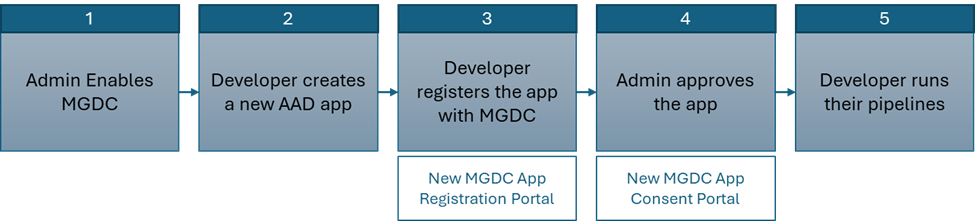
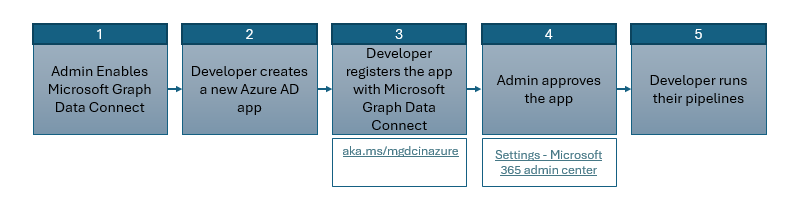
Updated onborading-experience-overview.md, data-connect-pam.md, and app-registration.md with readability and product branding updates; added app-authorization.md and existing-customer-migration.md new docs; added markdown notes to relevant pages

diff --git a/concepts/app-authorization.md b/concepts/app-authorization.md
@@ -1,0 +1,121 @@
+---
+title: "Microsoft Graph app authorization"
+description: "Description of the overall Microsoft Graph app authorization process"
+author: "michaelvenables"
+ms.localizationpriority: high
+ms.custom: scenarios:getting-started
+---
+
+# App authorization
+
+> [!NOTE]
+> This documentation is for global administrators authorizing Microsoft Graph Data Connect apps for your organization.
+
+The new Data Connect app authorization experience is built into the M365 admin center. You can get started by navigating to `Org settings` under the `Security & Privacy` tab. For direct access, [click here](https://admin.microsoft.com/Adminportal/Home?#/Settings/MGDCAdminCenter). This is a different entry point from where admins opt-in to Data Connect. Currently, only global administrators may authorize Data Connect applications.
+
+![Graphic showing org settings in the Security & Privacy tab for Data Connect apps.](images/org-settings-security-and-privacy-data-connect-apps.png)
+
+## App summary view
+
+The landing page of the Data Connect applications portal is a quick view of all Data Connect applications you may be interested in, as shown in the images below:
+
+![Graphic showing a quick view in the Data Connect portal of apps you might be interested in.](images/data-connect-applications-quick-view.png)
+
+![Graphic showing a line entry populated in the Data Connect portal.](images/data-connect-applications-quick-view-populated-with-line-entry.png)
+
+You'll find single-tenant applications and multi-tenant applications in the Data Connect applications portal:
+
+- **Single-tenant applications**—applications that are housed in the your tenant, and require access to data from your tenant. These are typically enterprise scenarios.  
+- **Multi-tenant applications**— applications that are housed in another tenant, and require access to data from your tenant. These are typically ISV scenarios. Review the apps carefully, as authorizing them can enable data to be migrated from your tenant to the app developer’s tenant.
+
+All single-tenant apps will be populated in the table by default. Only approved, denied, or expired multi-tenant apps will be included in the table. Other apps may be shown in the table with the following statuses:
+
+- **Pre-authorization**—apps that have not been acted upon yet. This status is only possible for single-tenant apps. Apps in this state will always fail at runtime.
+- **Approved**—apps that an admin has approved to access M365 data for your tenant.
+- **Denied**—apps that an admin has denied to access M365 data for your tenant. Apps in this state will always fail at runtime.
+- **Expired**—apps that an admin has approved to access M365 data for your tenant, but the approval expired. Apps in this state will always fail at runtime.
+
+### App details view
+
+***For this section, can we either have a set of images for the user to click through or a GIF of all wizard pages to reduce number of screenshots***
+
+Clicking on an app entry in the table will launch the app details view, with more information on what data the app requires. This wizard experience walks you through the relevant data access details, and allows you to approve or deny an app at the end. For what this looks like in the Data Connect app portal and M365 admin center, see the images below:
+
+![Graphic showing the app details view in the Data Connect portal.](images/data-connect-portal-app-details-view.png)
+
+![Graphic showing the app details view in the M365 admin center.](images/m365-admin-center-app-details-view.png)
+
+The first step in the wizard shows overview information about the application:
+
+`App owner` main user name of the developer who registered the application.
+
+`Data destination` sink where the data will be delivered. If approved, this app may move the requested data to any location within the listed sink.
+
+`App publisher` Azure AD tenant ID where the app is registered. For single-tenant apps, this should be the same AAD tenant ID as your tenant.
+
+![Graphic showing the app details view for a teams call records dataset sample in Data Connect portal.](images/data-connect-portal-team-call-records-sample.png)
+
+![Graphic showing the app details view for a user records dataset sample in Data Connect portal.](images/m365-admin-center-user-records-sample.png)
+
+![Graphic showing the app details view for a group details dataset sample in Data Connect portal.](images/m365-admin-center-group-details-sample.png)
+
+![Graphic showing the app details view for a message details dataset sample in Data Connect portal.](images/m365-admin-center-message-details-sample.png)
+
+The next few steps vary per dataset. There'll be one step per dataset registered in the app, for example:
+
+`Columns`—specifies columns the app intends to extract via Data Connect. If approved, this app can extract any subset of approved columns for the specified dataset.
+
+`Scope`—specifies scope (i.e., user selection) the app intends to extract via Data Connect. [Learn more about scopes in Data Connect](./data-connect-users-and-groups).
+
+![Graphic showing the scopes review page in Data Connect portal.](images/data-connect-scopes-review-page.png)
+
+![Graphic showing the scopes approve or decline page in Data Connect portal.](images/data-connect-scopes-approve-decline-page.png)
+
+The final wizard step confirms some key information on the app for your to review. You can select `Approve`, `Decline`, or `Cancel`. An action on an app is all or nothing. Authorizing an app means you are authorizing all access specified in the previous steps.
+
+![Graphic showing the app final authorization page in Data Connect portal.](images/data-connect-app-final-authorization.png)
+
+When authorizing an app, you may encounter these error messages:
+
+- App approver and owner cannot be the same user.
+- App registration not found. It is possible someone deleted this app.
+
+![Graphic showing an error message during app authorization review in Data Connect portal.](images/app-authorization-review-error-message.png)
+
+If an unexpected error occurs, the error message will include an error code. Please note this error code and share with Microsoft support.
+
+### Discovering multi-tenant applications
+
+![Graphic showing page for adding a multi-tenant app in Data Connect portal.](images/add-new-multi-tenant-app-page.png)
+
+To discover multi-tenant applications, click on `Add new multi-tenant app` above the app summary table. If your tenant is enabled for cross-tenant data migration, you'll be shown two text boxes. Once you enter the application ID and application’s tenant ID, and click `Find`,the portal will launch the app details view for the app you're searching for.
+
+### M365 audit logs
+
+The fresh Microsoft Graph Data Connect app authorization experience is integrated with M365 audit logs. When admins approve or deny a Data Connect application, an auditable event emits to M365 audit logs along with all relevant data about what exactly was approved or denied. You may search for Data Connect authorization events on audit logs search using any of the following:
+
+`Workload` MicrosoftGraphDataConnect
+
+`Record type` MicrosoftGraphDataConnectConsent
+
+`Activities` Approved or denied an app (Under `Microsoft Graph Data Connect Activities`)
+
+![Graphic showing an M365 audit log sample page.](images/m365-audit-log-example.png)
+
+### Authorization validation during pipeline execution
+
+At runtime, Data Connect validates incoming requests against all authorizations in the tenant. If a matching authorization is found, the job will proceed. If no authorization is discovered, the job will fail. Data Connect no longer stalls on `ConsentPending` when awaiting authorization. If authorization validation fails, you'll receive a specific error message on why your job failed to match existing app authorizations.
+
+Authorization validations applied during runtime include:
+
+- The application ID for the incoming request matches an authorized app.
+- The found app authorization is approved.
+- The application’s tenant ID for the incoming request matches the found app authorization’s app registration tenant ID.
+- The dataset for the incoming request is one of the datasets in the found app authorization.
+- The columns in the incoming request are a subset of those that were authorized for the requested dataset.
+- The destination tenant ID matches the found app authorization’s destination tenant ID.
+- The destination location for the incoming request is contained within the destination sink in the found app authorization.
+- The scope for the incoming request aligns with the scope in the found app authorization.
+  - If the app is authorized for all users/groups in the tenant, then any scope will pass this validation.
+  - If the app is authorized for a list of groups, then any subset of the authorized groups will pass this validation.
+  - If the app is authorized for a scope filter URI, then the incoming request must exactly match the authorized value.

diff --git a/concepts/app-registration.md b/concepts/app-registration.md
@@ -10,7 +10,7 @@ ms.custom: scenarios:getting-started
 
 ## Fresh Azure portal experience
 
-This is new best practices guidance for developers using the new Azure portal experience to register an Azure Active Directory (AAD) app with Data Connect. Additionally, with the new portal experience, developers and global administrators within the tenant can overview all registered applications, level of detail for consent, and ability to manage app registrations. Launch your experience in the [Azure portal](aka.ms/mgdcinazure). When you return to the portal, re-launch it in the search bar.
+This is new best practices guidance for developers using the new Azure portal experience to register an Azure Active Directory (AAD) app with Microsoft Graph Data Connect. Additionally, with the new portal experience, developers and global administrators within the tenant can overview all registered applications, level of detail for authorization, and ability to manage app registrations. Launch your experience in the [Azure portal](aka.ms/mgdcinazure). When you return to the portal, re-launch it in the search bar.
 
 ### Landing page
 
@@ -49,7 +49,7 @@ The "Registration Info" page outlines standard requirements for app registration
 
 If the selected type of storage is SQL Database Server, then it will only support Mapping Data Flows types. Learn more about Mapping Data Flows.
 
-`Storage Account` (required) select the storage account where the data to provision with MGDC will be located, or create a new Azure Storage Account.
+`Storage Account` (required) select the storage account where the data to provision with Data Connect will be located, or create a new Azure Storage Account.
 `Storage Account Uri` (required) from the storage account selected above, select the Uri to use (Distributed File System (DFS) or blob).
 
 If you select SQL for `Storage Account`, the `Uri` project detail field is disabled.
@@ -64,3 +64,49 @@ App registration requires you to select entries for the `Instance Details` that 
 ![Graphic showing the registration page for adding applications on Data Connect, including fields related to the Project Details and Instance Details sections.](images/registration-info-page.png)
 
 #### Datasets
+
+Once you complete the Registration Info page, specify the datasets that the app registration will need to query. This step is crucial for authorization, as only the datasets selected here will be transferred for administrator authorization. [Learn more about datasets](./data-connect-datasets).
+
+The wizard shows a table that allows the entry of multiple datasets, the selection of columns in the datasets, and further details for authorization of multi-tenant apps (scope and scope options). [Learn more about scopes](./data-connect-filtering#user-selection). You can select each dataset that the app will request for authorization, and all or several columns from the dataset, depending on the level of granularity and privacy required, shown in the images below.
+
+![Graphic showing the Datasets column selected while running the Data Connect app registration wizard.](images/datasets-wizard-datasets-column.png)
+
+![Graphic showing Datasets columns populated with selections while running the Data Connect app registration wizard.](images/datasets-wizard-datasets-column-populated.png)
+
+Once completed, click on `Next : Review + create`.
+
+> [!IMPORTANT]
+> If there is missing information for the required fields in the previous tabs, the `Next : Review + create` button will not be enabled.
+
+#### Review + create
+
+The last step in the wizard shows a summary page for you to review the specified details and confirm the creation of the app registration entry.
+
+![Graphic showing datasets selection for app registration while running the Data Connect app registration wizard.](images/datasets-wizard-datasets-app-registration-confirmation.png)
+
+### Overview of app registration process
+
+After your app registration entry is created, you can query its details by clicking on the app name from the landing page. All details specified in creation are shown.
+
+![Graphic showing the app registration details page.](images/app-registration-details-page.png)
+
+#### Update app registration entry
+
+Access update functionality from the individual app overview page. Only the app owner can update properties or datasets associated with a Data Connect application. As shown in the images below, any updates in the destination storage for the app or the datasets/schema/scopes associated with the app will invalidate any previously provided authorization, requiring the global admin to approve the app again from the M365 admin center.
+
+![Graphic showing the app registration Update Properties page.](images/app-registration-update-properties.png)
+
+![Graphic showing the app registration Update Datasets page.](images/app-registration-update-datasets.png)
+
+#### Delete an app registration entry
+
+Delete functionality can be accessed from the individual app overview page, or from the landing page. Currently, only global administrators can delete app registration entries. Proceeding forward, the owner of the Azure Active Directory (Azure AD) app ID will be able to delete the Data Connect app registration as well. If you can delete an app registration entry, then you'll need to type the name of the app to confirm the app's deletion. After the app is deleted, any dependency or pipeline that used it will become unusable, including:
+
+- Any current pipeline utilizing the application and past the authorization validation phase, would continue and succeed.
+- Any pipeline before the authorization validation phase would start failing since the application is missing.
+
+Deleting an app registration entry, and confirming your deletion will display in the wizard, shown in the images below.
+
+![Graphic showing the app registration Delete Registration entry page.](images/app-registration-deletion-confirmation.png)
+
+![Graphic showing the app registration Delete Registration entry page with user confirmation.](images/app-registration-deletion-user-confirmation.png)

diff --git a/concepts/data-connect-pam.md b/concepts/data-connect-pam.md
@@ -8,6 +8,9 @@ ms.prod: "data-connect"
 
 # Microsoft Graph Data Connect integration with PAM
 
+> [!IMPORTANT]
+> Microsoft Graph Data Connect integration with Privileged Access Management (PAM) has been deprecated. Explore our **[improved Microsoft Graph onboarding experience](./onboarding-experience-overview.md)**.
+
 Microsoft Graph Data Connect relies on Privileged Access Management (PAM) to allow Microsoft 365 administrators to approve data movement requests. Data Connect pipelines must be approved by a member of the data access request approver group specified by the Microsoft 365 administrator during enablement. To set up the approver group, see [Set up your Microsoft 365 tenant and enable Microsoft Graph Data Connect](/graph/data-connect-quickstart?tabs=Microsoft365&tutorial-step=1).
 
 Approval request emails are sent to each member of the approver group to notify them when copy activities request access to extract Microsoft 365 data. Approvers can approve or deny these requests, specify a user group that should be scrubbed out of extracted data, or revoke a previously approved request. Approvals persist for six months, and one approval is needed per copy activity in the Azure Synapse or Azure Data Factory pipeline.
@@ -150,7 +153,7 @@ Microsoft Graph Data Connect approval requests have particular characteristics t
 *  A new approval request is triggered if the Azure Synapse or Azure Data Factory pipeline or copy activity's name change. For example, a new approval is required if the data table or set of columns that the copy activity is accessing changes.
 * Copy activities must be approved once every six months. If the original approval was approved six months ago, a new approval request is automatically triggered.
 * If a Microsoft 365 data access approver has denied an approval request or revoked a previously approved request, the copy activity fails continually. Work with the approver to understand the reason for the denial or revocation, and fix the parameters of the copy activity accordingly. To trigger a new request for approval, a new copy activity must be deployed or the name of the existing copy activity must be changed.
-* An approval request expires in 24 hours unless a Microsoft 365 data access approver acts on the request. A new request is submitted once every 24 hours for approval. If you see your copy activity waiting for approval (in the Consent Pending stage), then work with a Microsoft 365 data access approver to get your request approved.
+* An approval request expires in 24 hours unless a Microsoft 365 data access approver acts on the request. A new request is submitted once every 24 hours for approval. If you see your copy activity waiting for approval (in the Authorization Pending stage), then work with a Microsoft 365 data access approver to get your request approved.
 
 ## Privacy scrubbing
 

diff --git a/concepts/existing-customer-migration.md b/concepts/existing-customer-migration.md
@@ -1,0 +1,31 @@
+---
+title: "Microsoft Graph existing customer migration"
+description: "Description of the overall Microsoft Graph existing customer migration process"
+author: "michaelvenables"
+ms.localizationpriority: high
+ms.custom: scenarios:getting-started
+---
+
+# Existing customer migration
+
+## Migrating existing customers to Microsoft Graph Data Connect
+
+Data Connect will migrate customers to the improved onboarding experience in three phases.
+
+### Phase 1
+
+&lt;alias&gt;
+
+In the first phase, customers who enable Data Connect after &lt;May 9 2023?&gt; will automatically start using Data Connect with the new app registration and app authorization experience. For these customers, please refer to the new &lt;Build your first Microsoft Graph Data Connect application&gt; tutorial.
+
+If you are an existing Data Connect customer, and want to get started with the improved app registration and authorization experience, simply disable Data Connect and then re-enabling it after &lt;May 1 2023?&gt;. If you choose this option, none of your existing PAM authorizations will be migrated to the new experience. You'll need to register the apps from scratch, and work with your tenant admin to get them authorized.
+
+### Phase 2
+
+In the second phase, existing Data Connect customers are provided the option to perform a one-click auto-migration from PAM over to the new onboarding experience. This auto-migration handles the conversion of existing PAM authorizations into app registrations and maintains existing app authorizations. The goal is to enable a smooth migration with no downtime for existing customers.
+
+Existing customers will see this option from &lt;June 2023&gt;. We will share more details on what auto-migration entails as we approach the date this feature will become available.
+
+### Phase 3
+
+In the third phase, existing Data Connect customers who didn't perform the one-click auto-migration will be force-migrated to the new onboarding experience. When available, we will announce the date to begin force migration. Any customer who remains not migrated by the start of phase 3 will be force-migrated to the new experience on their first Data Connect run once phase 3 begins.

diff --git a/concepts/onboarding-experience-overview.md b/concepts/onboarding-experience-overview.md
@@ -10,7 +10,7 @@ ms.custom: scenarios:getting-started
 
 Microsoft Graph Data Connect (Data Connect) has a simplified onboarding experience for customers—featuring an improved app registration process, a fresh app authorization experience, and pointed guidance for migrating existing customers to the new Data Connect experience.
 
-Data Connect is moving from a just-in-time authorization model (that leverages PAM)—to a pre-consent experience decoupled from PAM, in which data movements will be authorized before a pipeline is executed.
+Data Connect is moving from a just-in-time authorization model (that leverages PAM)—to a pre-authorization experience decoupled from PAM, in which data movements will be authorized before a pipeline is executed.
 
 ![Graphic showing the improved onboarding experience for Microsoft Graph Data Connect customers.](images/new-mgdc-onboarding-flow.png)
 
@@ -45,7 +45,7 @@ We'd like everyone to have a more fluid onboarding experience to Data Connect. L
 
 ## Confirming your new tenant experience
 
-If your tenant enabled Data Connect on the Microsoft 365 Admin Center after &lt;date&gt;, your organization is successfully enrolled in the new onboarding experience. Confirm this by requesting someone in your company with a Global Reader or Global Administrator-assigned role to access the Data Connect admin consent portal. If the user is able to access the experience shown below without the highlighted warning, your tenant is making use of the new experience.  
+If your tenant enabled Data Connect on the Microsoft 365 Admin Center after &lt;date&gt;, your organization is successfully enrolled in the new onboarding experience. Confirm this by requesting someone in your company with a Global Reader or Global Administrator-assigned role to access the Data Connect admin authorization portal. If the user is able to access the experience shown below without the highlighted warning, your tenant is making use of the new experience.  
 
 ![The highlighted warning displayed for users if their organization is not using the new tenant experience.](images/M365-admin-center-highlighted-warning.png)
 
